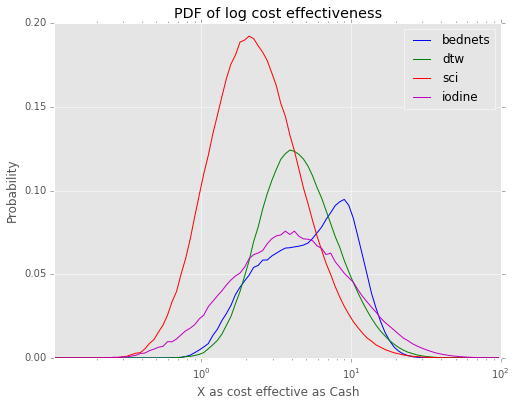
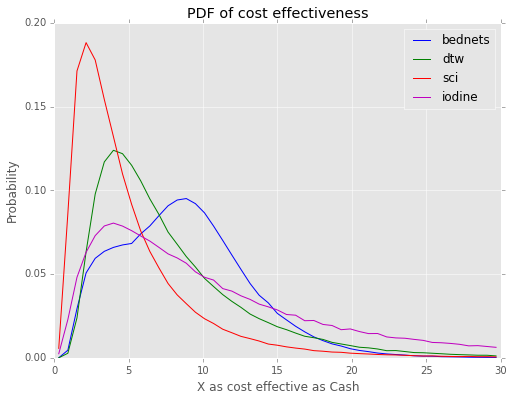
changed to lognormal calcs

diff --git a/ea_portfolio.py b/ea_portfolio.py
@@ -11,12 +11,15 @@ import matplotlib.pyplot as plt
 #from matplotlib.patches import Ellipse
 plt.style.use('ggplot')
 
-import cvxopt as opt
-from cvxopt import solvers
-solvers.options['show_progress'] = False
+#import cvxopt as opt
+#from cvxopt import solvers
+#solvers.options['show_progress'] = False
 
 import pandas as pd
 
+from scipy.spatial import ConvexHull
+
+'''
 def portfolio_solver(S, p=np.empty(0), r=0.0):
     n = S.shape[0]    
     
@@ -44,17 +47,69 @@ def portfolio_solver(S, p=np.empty(0), r=0.0):
         return np.array(ret['x'])
     else:
         return np.empty(0)
-
+'''
 def downside_risk(x, t):
     return np.sqrt(np.power(np.minimum(0.0, x - t), 2.0).sum()/x.size)
 
 if __name__ == '__main__':
     data = pd.read_pickle('data.pickle')
     n = data.shape[1]
+    N = 1000
     
-    # target return
-    t = 5.0
+    #t = 1.0
     
+    # individual returns
+    p = data.mean().as_matrix()
+    t = np.min(p)
+    s = data.apply(lambda x: downside_risk(x, t), axis=0).as_matrix()
+    #s = data.std().as_matrix()
+    
+    # random portfolios
+    #x = np.random.random([N, n])
+    #x = np.divide(x, np.sum(x, axis=1).reshape(N, 1))
+    x = np.random.dirichlet(np.ones(n)/2.5, N)
+    
+    # portfolio returns
+    r = np.zeros(N)
+    v = np.zeros(N)
+    for j in range(N):
+        d = data.dot(x[j]).as_matrix()
+        r[j] = np.mean(d)
+        v[j] = downside_risk(d, t)
+        #v[j] = np.std(d)
+        
+    # optimal portfolios
+    hull = ConvexHull(np.vstack((v, r)).transpose())
+    vm = v[hull.vertices]
+    rm = r[hull.vertices]
+    im0 = np.argmin(vm)
+    im1 = np.argmax(rm)
+    xm = x[hull.vertices][im0]
+    
+    # tangent portfolio
+    sr = (rm - 1.0)/vm
+    it = np.argmax(sr)
+    vt = v[hull.vertices][it]
+    rt = r[hull.vertices][it]
+    xt = x[hull.vertices][it]
+        
+    colors = ['b', 'g', 'r', 'm']
+    plt.figure(0, figsize=(8, 6))
+    plt.axis([0.0, 2.5, 0, 13])
+    plt.plot(v, r, '.', color='k', alpha=0.05)
+    plt.plot([0, vt], [1.0, rt], 'y-', label='tangency')
+    plt.plot(vm[im1:im0+1], rm[im1:im0+1], 'c-', label='optimal')
+    plt.plot(vm[im0], rm[im0], 'ko', label='mvp')
+    for j in range(n):
+        plt.plot(s[j], p[j], 'o', label=data.columns[j], color=colors[j])
+    
+    plt.legend(loc='lower right', ncol=3, numpoints=1)
+    plt.title('GiveWell charity portfolios')
+    plt.xlabel('Variability')
+    plt.ylabel('X as cost effective as Cash')
+
+    
+    '''    
     p = data.mean().as_matrix()
     
     S = data.cov().as_matrix()
@@ -117,3 +172,4 @@ if __name__ == '__main__':
     plt.title('GiveWell charity portfolios')
     plt.xlabel('Variability')
     plt.ylabel('X as cost effective as Cash')
+    '''

diff --git a/ea_test.py b/ea_test.py
@@ -23,7 +23,7 @@ def get_rvs(p, n):
         return p['val']
 
 if __name__ == '__main__':
-    n = 1000000
+    n = 500000
     
     with open('params.json') as fp:    
         params = json.load(fp)
@@ -287,8 +287,8 @@ if __name__ == '__main__':
     iodine['X as cost effective as Cash'] = \
         iodine['Proportional increase in consumption per dollar']/cash['Proportional increase in consumption per dollar']
     
-    #x = np.linspace(0.0, 30.0, 50)
-    x = np.logspace(-1, 2, 100)
+    x = np.linspace(0.0, 30.0, 50)
+    #x = np.logspace(-1, 2, 100)
     #cash_y, cash_x = np.histogram(cash['Proportional increase in consumption per dollar']/np.median(cash['Proportional increase in consumption per dollar']), bins=x, density=True)
     bednets_y, bednets_x = np.histogram(bednets['X as cost effective as Cash'], bins=x, density=True)
     dtw_y, dtw_x = np.histogram(dtw['X as cost effective as Cash'], bins=x, density=True)
@@ -297,10 +297,10 @@ if __name__ == '__main__':
     
     plt.figure(0,  figsize=(8, 6))
     #plt.plot((cash_x[:-1] + cash_x[1:])/2.0, cash_y, label='cash', color='k')
-    plt.semilogx((bednets_x[:-1] + bednets_x[1:])/2.0, bednets_y, label='bednets', color='b')
-    plt.semilogx((dtw_x[:-1] + dtw_x[1:])/2.0, dtw_y, label='dtw', color='g')
-    plt.semilogx((sci_x[:-1] + sci_x[1:])/2.0, sci_y, label='sci', color='r')
-    plt.semilogx((iodine_x[:-1] + iodine_x[1:])/2.0, iodine_y, label='iodine', color='m')
+    plt.plot((bednets_x[:-1] + bednets_x[1:])/2.0, bednets_y, label='bednets', color='b')
+    plt.plot((dtw_x[:-1] + dtw_x[1:])/2.0, dtw_y, label='dtw', color='g')
+    plt.plot((sci_x[:-1] + sci_x[1:])/2.0, sci_y, label='sci', color='r')
+    plt.plot((iodine_x[:-1] + iodine_x[1:])/2.0, iodine_y, label='iodine', color='m')
     plt.xlim([0, np.max(x)])
     plt.xlabel('X as cost effective as Cash')
     plt.ylabel('Probability')
